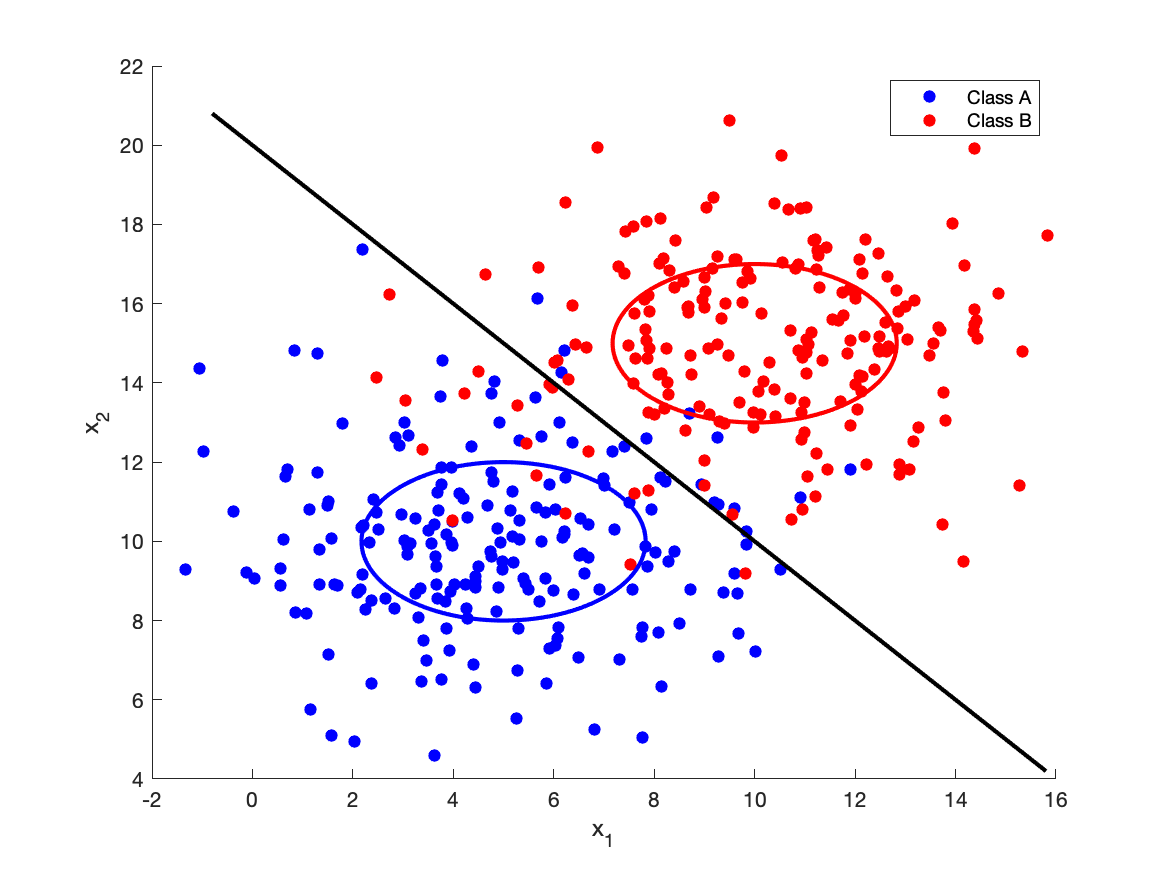
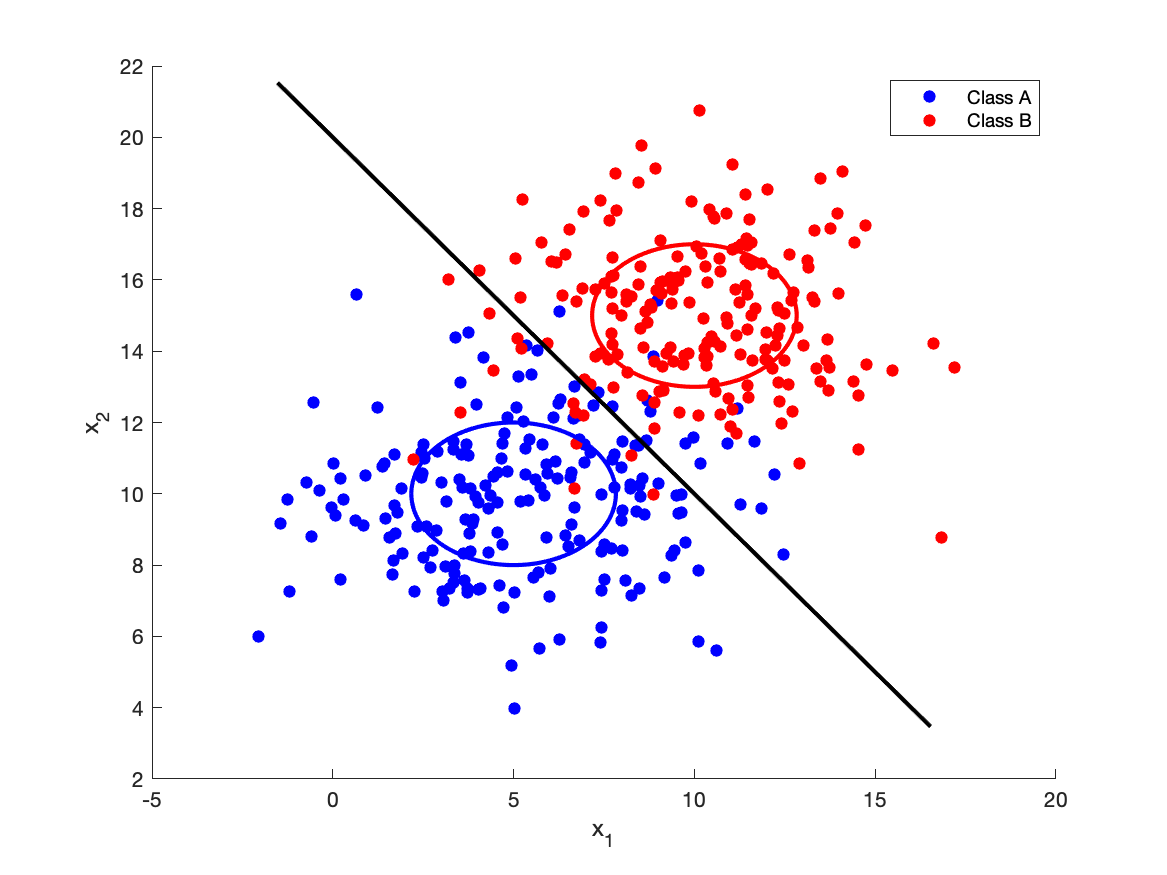
Empirical classification; need to figure out how to draw boundary lines

diff --git a/main.m b/main.m
@@ -51,13 +51,67 @@ plot(class_c_x, class_c_y, 'b-', 'LineWidth', 2);
 plot(class_d_x, class_d_y, 'r-', 'LineWidth', 2);
 plot(class_e_x, class_e_y, 'black-', 'LineWidth', 2);
 
+% MED multi classifier
+num_points = 500;
+max_data = 5 + max([class_c.Data class_d.Data class_e.Data], [], 2);
+min_data = -5 + min([class_c.Data class_d.Data class_e.Data], [], 2);
+x1 = linspace(min_data(1), max_data(1), num_points);
+x2 = linspace(min_data(2), max_data(2), num_points);
+[A,B] = meshgrid(x1,x2);
+c=cat(2,A',B');
+x=reshape(c,[],2)';
+
+dist_c = vecnorm(x - class_c.Mean); 
+dist_d = vecnorm(x - class_d.Mean); 
+dist_e = vecnorm(x - class_e.Mean); 
+
+[~, min_I] = min([dist_c; dist_d; dist_e]);
+test = reshape(min_I, size(A));
+
+I = find(min_I == 3); 
+scatter(x(1, I), x(2, I), 'black', 'filled', 'MarkerFaceAlpha',.01,'MarkerEdgeAlpha',.01);
+[~, min_I] = min([dist_c; dist_d; dist_e]);
+I = find(min_I == 2); 
+scatter(x(1, I), x(2, I), 'r', 'filled', 'MarkerFaceAlpha',.01,'MarkerEdgeAlpha',.01);
+[min_val, min_I] = min([dist_c; dist_d; dist_e]);
+I = find(min_I == 1); 
+scatter(x(1, I), x(2, I), 'b', 'filled', 'MarkerFaceAlpha',.01,'MarkerEdgeAlpha',.01);
+
+
+% mid = (class_c.Mean + class_d.Mean)/2;
+% normal = class_d.Mean - class_c.Mean;
+% normal = [-normal(2); normal(1)];
+% normal = normal./norm(normal);
+% p1 = mid + l*normal;
+% % p2 = mid - l*normal;
+% line([p1(1), mid(1)], [p1(2), mid(2)], 'color','k','LineWidth',2)
+% 
+% mid = (class_c.Mean + class_e.Mean)/2;
+% normal = class_e.Mean - class_c.Mean;
+% normal = [-normal(2); normal(1)];
+% normal = normal./norm(normal);
+% p1 = mid + l*normal;
+% % p2 = mid - l*normal;
+% line([p1(1), mid(1)], [p1(2), mid(2)], 'color','k','LineWidth',2)
+% 
+% mid = (class_d.Mean + class_e.Mean)/2;
+% normal = class_e.Mean - class_d.Mean;
+% normal = [-normal(2); normal(1)];
+% normal = normal./norm(normal);
+% p1 = mid + l*normal;
+% p2 = mid - l*normal;
+% line([p1(1), mid(1)], [p1(2), mid(2)], 'color','k','LineWidth',2)
+% 
+
 xlabel('x_1');
 ylabel('x_2');
-legend('Class A', 'Class B', 'Class C');
+legend('Class C', 'Class D', 'Class E');
 saveas(gcf, "img/class_c_d_e.png");
 hold off;
 
 % Part 3: Classifiers
+
+
 
 
 
